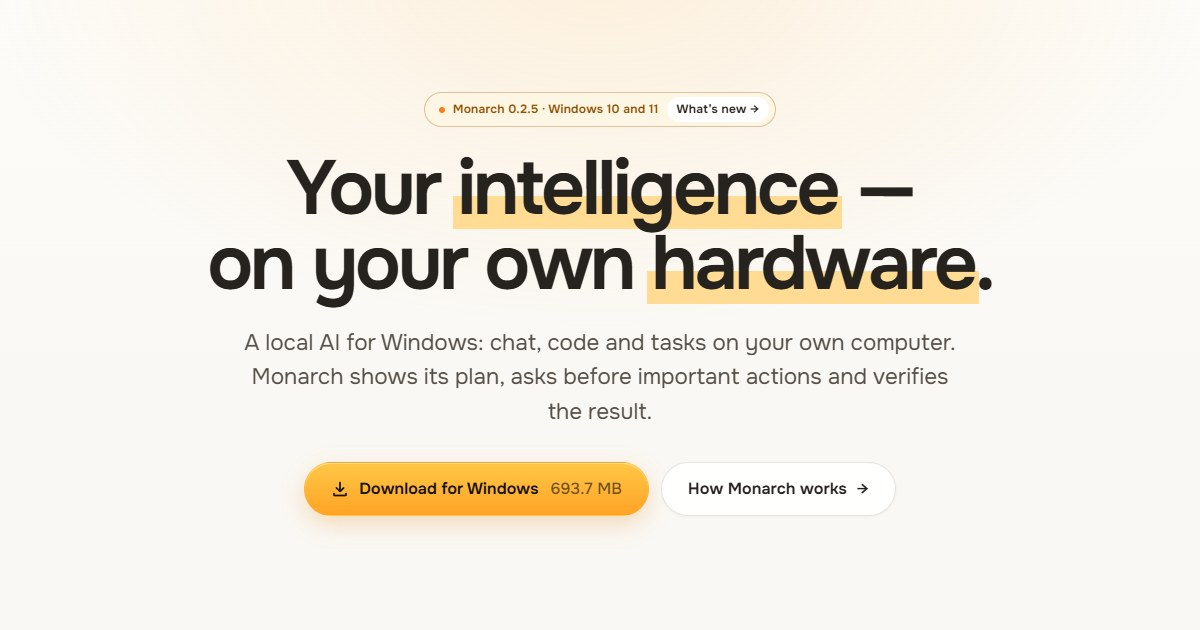
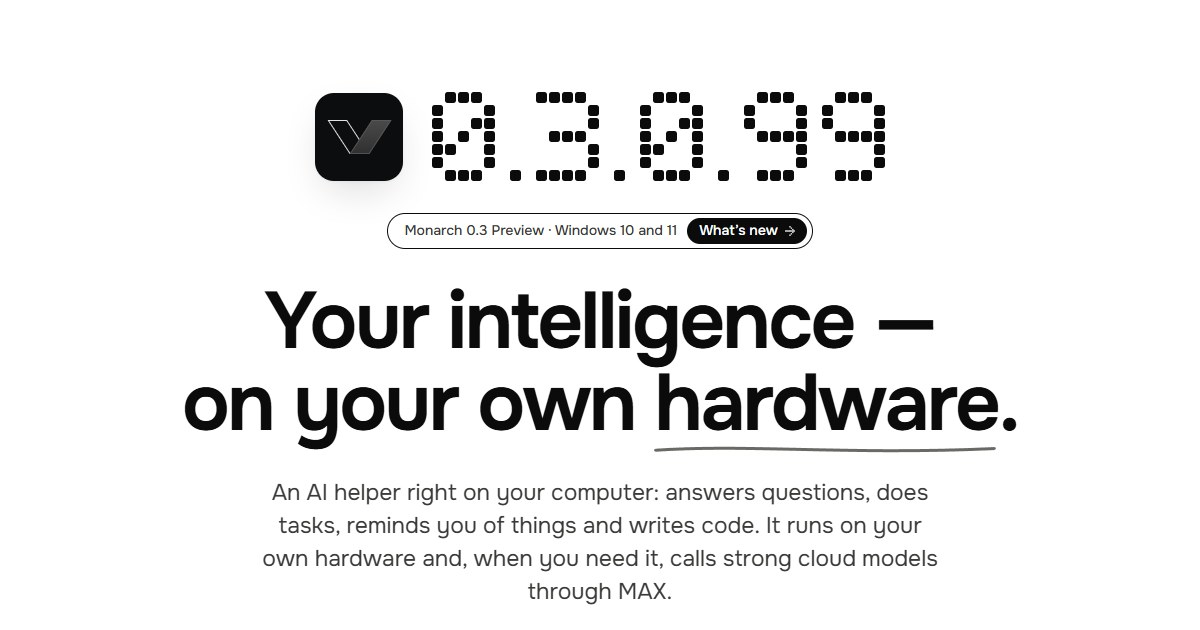
release: Monarch 0.3.0.99 is the pinned stable build; OG images with the new mark

Changed region(s): [[0.1542, 0.0, 0.8633, 0.8444], [0.2158, 0.8746, 0.7708, 0.9651]]

diff --git a/app/lib/release-config.ts b/app/lib/release-config.ts
@@ -9,16 +9,16 @@ export const releaseConfig = {
     "https://api.github.com/repos/MrPastio/monarch-releases/releases?per_page=30",
   /** Last release confirmed by hand; used only if GitHub is unreachable. */
   knownRelease: {
-    version: "0.3.0.98",
-    publishedAt: "2026-10-14T13:51:18Z",
-    confirmedAt: "2026-10-14T00:00:00Z",
-    url: "https://github.com/MrPastio/monarch-releases/releases/tag/v0.3.0.98",
+    version: "0.3.0.99",
+    publishedAt: "2026-10-16T14:42:14Z",
+    confirmedAt: "2026-10-16T00:00:00Z",
+    url: "https://github.com/MrPastio/monarch-releases/releases/tag/v0.3.0.99",
     assetUrl:
-      "https://github.com/MrPastio/monarch-releases/releases/download/v0.3.0.98/Monarch-Setup-0.3.0.98.exe",
-    assetSize: 726_147_812,
+      "https://github.com/MrPastio/monarch-releases/releases/download/v0.3.0.99/Monarch-Setup-0.3.0.99.exe",
+    assetSize: 724_933_985,
     assetSha256:
[1 lines of base64/hex data omitted]
-    fileName: "Monarch-Setup-0.3.0.98.exe",
[1 lines of base64/hex data omitted]
+    fileName: "Monarch-Setup-0.3.0.99.exe",
   },
   /** Revoked by the stable channel; used if the signed manifest is unreachable. */
   knownRevoked: ["0.2.3.2", "0.2.3.3", "0.2.3.5"],

diff --git a/app/content/bg.ts b/app/content/bg.ts
@@ -516,7 +516,7 @@ export const bg: Dict = {
         { title: "Изчисли SHA-256", text: "Отвори PowerShell в папката за изтегляния и изпълни:" },
         { title: "Сравни", text: "Резултатът трябва да съвпада със SHA-256 на тази страница знак по знак. Ако не съвпада — не стартирай файла." },
       ],
-      command: "Get-FileHash .\\Monarch-Setup-0.3.0.98.exe -Algorithm SHA256",
+      command: "Get-FileHash .\\Monarch-Setup-0.3.0.99.exe -Algorithm SHA256",
       archiveTitle: "Архив на версиите",
       archiveLede: "Всички публикувани инсталатори. За работа препоръчваме последната версия: старите не получават поправки.",
       stateCurrent: "Актуална",

diff --git a/app/content/ru.ts b/app/content/ru.ts
@@ -530,7 +530,7 @@ export const ru = {
         { title: "Посчитай SHA-256", text: "Открой PowerShell в папке загрузок и выполни команду:" },
         { title: "Сравни", text: "Результат должен совпасть с SHA-256 на этой странице буква в букву. Если не совпал — не запускай файл." },
       ],
-      command: "Get-FileHash .\\Monarch-Setup-0.3.0.98.exe -Algorithm SHA256",
+      command: "Get-FileHash .\\Monarch-Setup-0.3.0.99.exe -Algorithm SHA256",
       archiveTitle: "Архив версий",
       archiveLede: "Все опубликованные установщики. Для работы советуем последнюю версию: старые не получают исправлений.",
       stateCurrent: "Актуальная",

diff --git a/app/content/uk.ts b/app/content/uk.ts
@@ -516,7 +516,7 @@ export const uk: Dict = {
         { title: "Порахуй SHA-256", text: "Відкрий PowerShell у теці завантажень і виконай команду:" },
         { title: "Порівняй", text: "Результат має збігтися з SHA-256 на цій сторінці літера в літеру. Якщо не збігся — не запускай файл." },
       ],
-      command: "Get-FileHash .\\Monarch-Setup-0.3.0.98.exe -Algorithm SHA256",
+      command: "Get-FileHash .\\Monarch-Setup-0.3.0.99.exe -Algorithm SHA256",
       archiveTitle: "Архів версій",
       archiveLede: "Усі опубліковані інсталятори. Для роботи радимо останню версію: старі не отримують виправлень.",
       stateCurrent: "Актуальна",

diff --git a/app/content/en.ts b/app/content/en.ts
@@ -516,7 +516,7 @@ export const en: Dict = {
         { title: "Compute SHA-256", text: "Open PowerShell in your Downloads folder and run:" },
         { title: "Compare", text: "The result must match the SHA-256 on this page character for character. If it doesn’t, don’t run the file." },
       ],
-      command: "Get-FileHash .\\Monarch-Setup-0.3.0.98.exe -Algorithm SHA256",
+      command: "Get-FileHash .\\Monarch-Setup-0.3.0.99.exe -Algorithm SHA256",
       archiveTitle: "Version archive",
       archiveLede: "Every published installer. For everyday use we recommend the latest: older versions don’t receive fixes.",
       stateCurrent: "Current",

diff --git a/app/content/claims.ts b/app/content/claims.ts
@@ -238,7 +238,7 @@ export type ClaimId = keyof typeof claims;
 export const forbiddenWording: { pattern: RegExp; because: string }[] = [
   {
     pattern: /подписанн?(ое|ый|о)\s+приложени|подписанн?ый\s+установщик/i,
-    because: "Authenticode у установщика 0.3.0.98 отсутствует (NotSigned).",
+    because: "Authenticode у установщика 0.3.0.99 отсутствует (NotSigned).",
   },
   {
     // A denial ("не заменяет антивирус") is exactly what we want to keep,
